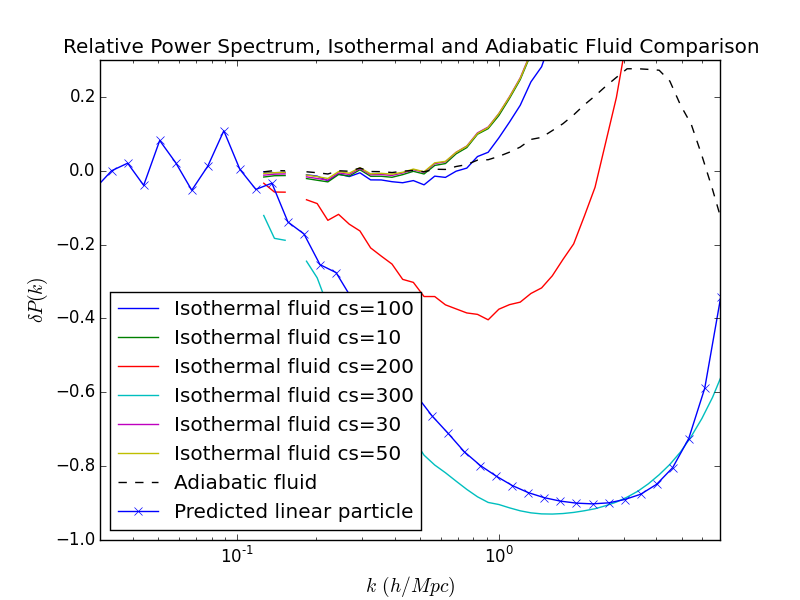
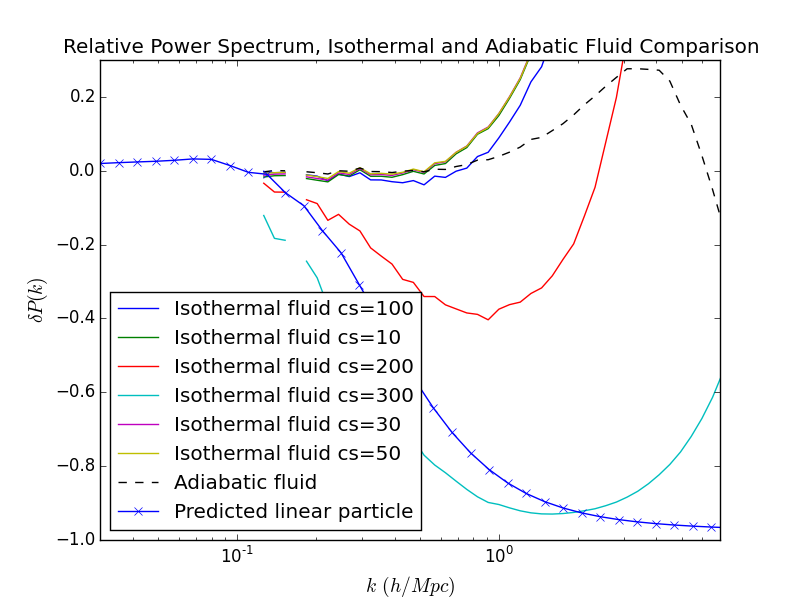
Added analytic predictions at z=0 for pure n-body case.

diff --git a/plots/isothermal/isothermal_fluid_low_adiabatic_normalized_particle_minpressure.py b/plots/isothermal/isothermal_fluid_low_adiabatic_normalized_particle_minpressure.py
@@ -32,10 +32,8 @@ for simtype in simtypes:
             ps = (ps - ps_base)/ps_base
             plt.semilogx(kvalues, ps, '--', label='Adiabatic fluid')
 
-linear_kvalues, linear_ps = np.loadtxt(result_dir+'particle_b400_n1024_t0.005_h2_z100_z100.out', unpack=True)
-linear_kvalues_base, linear_ps_base = np.loadtxt(result_dir+'particle_b400_n1024_t0.005_h2_z100.out', unpack=True)
-linear_ps*=5983.9
-linear_ps = (linear_ps - linear_ps_base)/linear_ps_base
+_, linear_kvalues, linear_ps, nonlinear_ps = np.loadtxt(result_dir+'testPk0.dat', unpack=True)
+linear_ps = (linear_ps - nonlinear_ps)/nonlinear_ps
 plt.semilogx(linear_kvalues, linear_ps, '-x', label='Predicted linear particle')
 
 plt.xlim([0.03,7.0])
